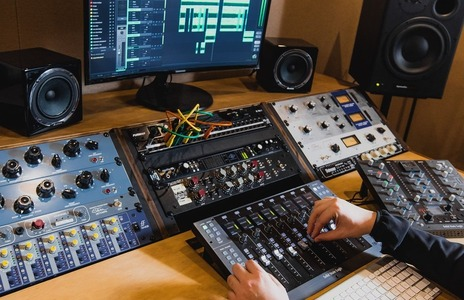
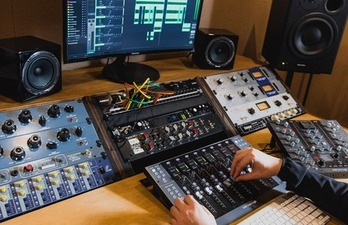
optimizacion

diff --git a/index.html b/index.html
@@ -48,8 +48,8 @@
 
     <div class="banner">
         <picture>
-            <source media="(min-width:765px)" srcset="/imagenes/bannerxd-pequeno.jpg">
-           <img class="w-100" src="/imagenes/bannerxd-pequeno-mobile2.jpg" alt="Estudio de música">
+            <source media="(min-width:765px)" srcset="/imagenes/bannerxd-pequeno2.jpg">
+            <img class="w-100" src="/imagenes/bannerxd-pequeno-mobile2.jpg" alt="Estudio de música">
         </picture>
     </div>
     <section>
